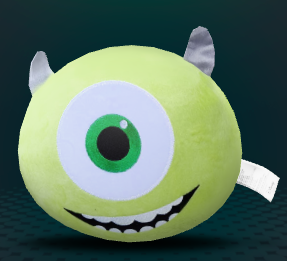
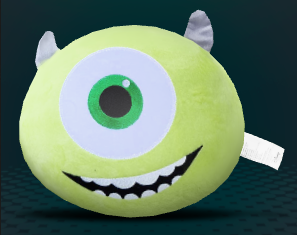
d

diff --git a/index.html b/index.html
@@ -134,8 +134,8 @@
 
         const modelViewer = document.querySelector('model-viewer');
         // modelViewer.style.visibility = 'hidden';
-        modelViewer.style.top = '-100px';
-        modelViewer.style.transform = 'scale(0.957)';
+        modelViewer.style.top = '-71px';
+        modelViewer.style.transform = 'scale(0.988)';
 
 
 
@@ -178,10 +178,11 @@
                 const supportsAR = await modelViewer.canActivateAR;
 
                 if (supportsAR) {
-                    window.open("https://profound-pony-ad13d7.netlify.app/index-but.html");
-                    modelViewer.style.top = '-80px';
+                    window.open("https://comercial-tec-3d.clarin.com/model-inc/index-but.html");
+                    modelViewer.style.top = '0px';
                     modelViewer.activateAR();
                 } else {
+                    modelViewer.style.top = '0px';
                     
                     // modelViewer.style.top = '-1000px';
 
